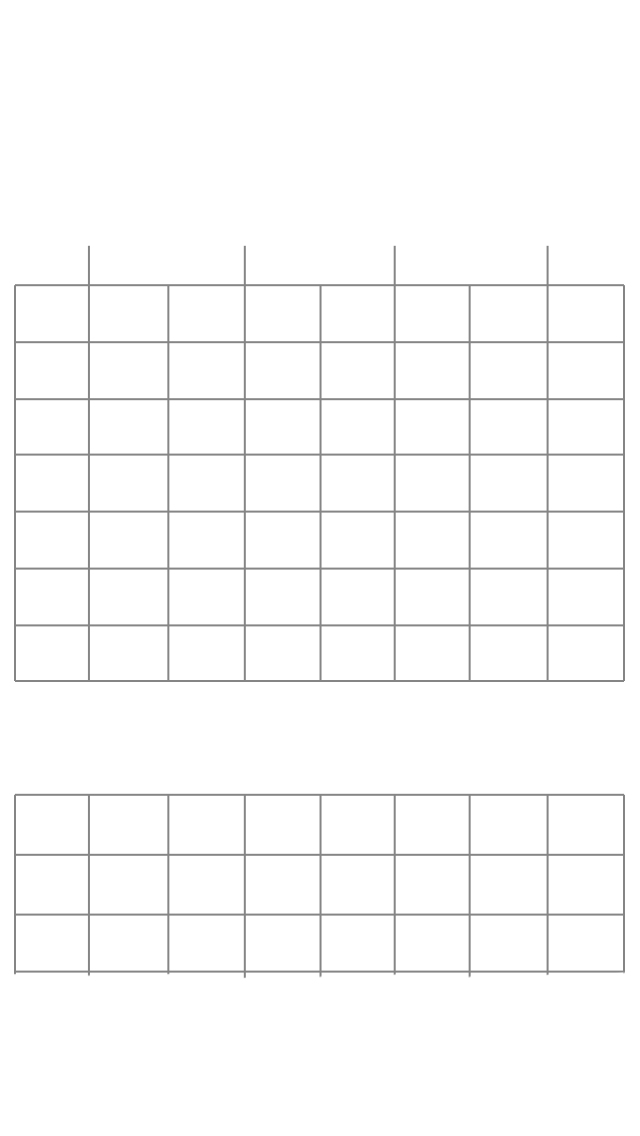
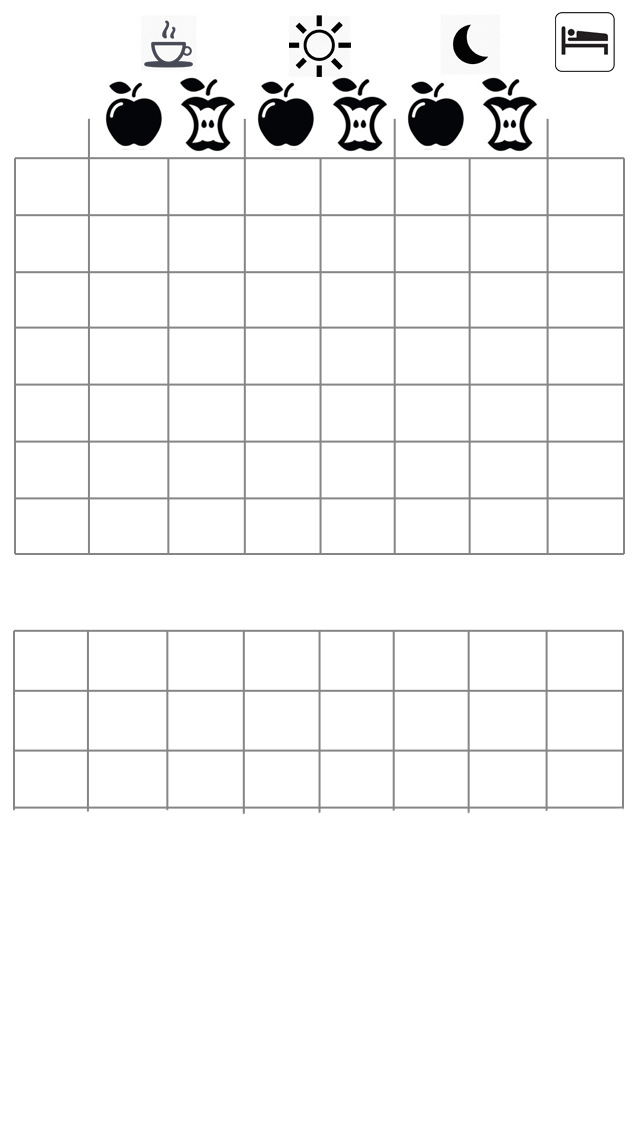
schema view in table view controller with predefined items choosable

diff --git a/bti8108.groupbjjm.diabetespass/bti8108.groupbjjm.diabetespass/SetSchemaViewController.m b/bti8108.groupbjjm.diabetespass/bti8108.groupbjjm.diabetespass/SetSchemaViewController.m
@@ -7,11 +7,23 @@
 //
 
 #import "SetSchemaViewController.h"
+#import "SettingsSchemaView.h"
+
+@interface SetSchemaViewController()
+
+@property (nonatomic, strong) NSArray* matrixData;
+
+@end
 
 @implementation SetSchemaViewController
 
+@synthesize pickerDefaults=_pickerDefaults;
 
 
+CGFloat const WeekDayLabelSize = 50.0;
+CGFloat const CheckButtonWith = 50.0;
+CGFloat const MatrixSpacing = 5.0;
+CGFloat const FirstDataRowPosition = 90.0;
 
 - (IBAction)unwindToSchemaView:(UIStoryboardSegue *)segue
 {
@@ -27,6 +39,307 @@
 }
 
 
+
+
+-(void) viewDidLoad {
+    [super viewDidLoad];
+    
+    [self initFakeData];
+    
+    
+    CGRect applicationFrame = [[UIScreen mainScreen] applicationFrame];
+    
+    _pickerDefaults = @[@"wenig", @"häufig", @"viel"];
+    
+    self.defaultSchemePicker.dataSource = self;
+    self.defaultSchemePicker.delegate = self;
+    
+    self.defaultSchemePicker.hidden = true;
+    
+    NSInteger row = [self.defaultSchemePicker selectedRowInComponent:0];
+    NSString *itemName = [_pickerDefaults objectAtIndex:row];
+    
+    [self.changeSchema setTitle:itemName forState:UIControlStateNormal];
+    
+    UIImageView *backgroundImageView = [[UIImageView alloc] initWithFrame:applicationFrame];
+    UIImage *backgroundImage = [UIImage imageNamed:@"SchemaBackground@2x"];
+    backgroundImageView.image = backgroundImage;
+    [self.schemaViewCell addSubview:backgroundImageView];
+    
+    [self initButtonMatrix];
+}
+
+-(void)initFakeData {
+    
+    NSMutableArray *matrix = [NSMutableArray array];
+    for (int rows = 0; rows < 10 ; rows++) {
+        NSMutableArray *columns = [NSMutableArray array];
+        for (int col = 0; col < 7; col++) {
+            [columns addObject:[NSNumber numberWithInt:1]];
+        }
+        [matrix addObject:columns];
+    }
+    
+    self.matrixData = matrix;
+}
+
+-(void)tableView:(UITableView *)tableView didSelectRowAtIndexPath:(NSIndexPath *)indexPath {
+    UITableViewCell* cell = [tableView cellForRowAtIndexPath:indexPath];
+    if (cell == self.intervallCell) { // this is my date cell above the picker cell
+        self.defaultPickerIsShowing = !self.defaultPickerIsShowing;
+        if (self.defaultPickerIsShowing) {
+            [self showPickerCell];
+        } else {
+            [self hidePickerCell];
+        }
+        
+        [UIView animateWithDuration:.4 animations:^{
+            [self.tableView reloadRowsAtIndexPaths:@[[NSIndexPath indexPathForRow:2 inSection:0]] withRowAnimation:UITableViewRowAnimationFade];
+            [self.tableView reloadData];
+        }];
+    }
+}
+
+- (void)showPickerCell {
+    
+    // set the boolean to YES, to mark that the datepicker is shown
+    self.defaultPickerIsShowing = YES;
+    
+    [self.tableView beginUpdates];
+    
+    [self.tableView endUpdates];
+    
+    // show the date picker and make an animation that if looks like the datepicker appears behind the cells
+    self.defaultSchemePicker.hidden = NO;
+    self.defaultSchemePicker.alpha = 0.0f;
+    
+    [UIView animateWithDuration:0.25 animations:^{
+        
+        self.defaultSchemePicker.alpha = 1.0f;
+        
+    }];
+}
+
+// method to hide the morning date picker cell
+- (void)hidePickerCell {
+    
+    // set the boolean to NO, to mark that the morning datepicker is not shown
+    self.defaultPickerIsShowing = NO;
+    
+    [self.tableView beginUpdates];
+    [self.tableView endUpdates];
+    
+    // animation effect, that if looks like the morning date picker dissapear behind the cells after that set the midday date picker hidden
+    [UIView animateWithDuration:0.25
+                     animations:^{
+                         self.defaultSchemePicker.alpha = 0.0f;
+                     }
+                     completion:^(BOOL finished){
+                         self.defaultSchemePicker.hidden = YES;
+                     }];
+}
+
+
+- (void)pickerView:(UIPickerView *)pickerView didSelectRow:(NSInteger)row inComponent:(NSInteger)component {
+
+    NSString *itemName = [_pickerDefaults objectAtIndex:row];
+    
+    NSLog(itemName);
+    
+    //wenn geändert: speichern
+    [self.changeSchema setTitle:itemName forState:UIControlStateNormal];
+}
+
+// store the index path of the date picker cell
+-(CGFloat)tableView:(UITableView *)tableView heightForRowAtIndexPath:(NSIndexPath *)indexPath {
+
+    if (indexPath.section == 0 && indexPath.row == 1 && !self.defaultPickerIsShowing){
+        return 0;
+    }
+    //else give back standard height defined
+    return [super tableView:tableView heightForRowAtIndexPath:indexPath];
+}
+
+//// Customize the appearance of table view cells.
+//- (UITableViewCell *)tableView:(UITableView *)tableView cellForRowAtIndexPath:(NSIndexPath *)indexPath {
+//    UITableViewCell *cell = [tableView cellForRowAtIndexPath:[NSIndexPath indexPathWithIndex:1]];
+//    if (cell == nil) {
+//        [cell.contentView addSubview:[SettingsSchemaView init]];
+//    }
+//    
+//    return cell;
+//}
+
+-(void) initButtonMatrix {
+    
+    NSArray *weekdays = [NSArray arrayWithObjects:@"Mo", @"Di", @"Mi", @"Do", @"Fr", @"Sa", @"So", nil];
+    NSArray *remainingDays = [NSArray arrayWithObjects:@"-3", @"-2", @"-1", nil];
+    
+    
+//    //Images daytime
+//    
+//    UIImageView *morningImageView = [[UIImageView alloc] initWithFrame:CGRectMake(70, 85, 30, 30)];
+//    UIImage *morningImage = [UIImage imageNamed:@"morning@2x"];
+//    morningImageView.image = morningImage;
+//    [self.schemaViewCell addSubview:morningImageView];
+//    
+//    UIImageView *noonImageView = [[UIImageView alloc] initWithFrame:CGRectMake(140, 85, 30, 30)];
+//    UIImage *noonImage = [UIImage imageNamed:@"noon@2x"];
+//    noonImageView.image = noonImage;
+//    [self.schemaViewCell addSubview:noonImageView];
+//    
+//    UIImageView *eveningImageView = [[UIImageView alloc] initWithFrame:CGRectMake(210, 85, 30, 30)];
+//    UIImage *eveningImage = [UIImage imageNamed:@"evening@2x"];
+//    eveningImageView.image = eveningImage;
+//    [self.schemaViewCell addSubview:eveningImageView];
+//    
+//    UIImageView *nightImageViews = [[UIImageView alloc] initWithFrame:CGRectMake(280, 85, 30, 30)];
+//    UIImage *nightImage = [UIImage imageNamed:@"night@2x"];
+//    nightImageViews.image = nightImage;
+//    [self.schemaViewCell addSubview:nightImageViews];
+//    
+//    
+//    // Images before/after MEal
+//    UIImage *appleBig = [UIImage imageNamed:@"apfel_ganz"];
+//    UIImage *appleSmall = [UIImage imageNamed:@"apfel_biss"];
+//    
+//    UIImageView *morningPre= [[UIImageView alloc] initWithFrame:CGRectMake(55, 120, 30,30)];
+//    morningPre.image = appleBig;
+//    [self.schemaViewCell addSubview:morningPre];
+//    
+//    UIImageView *morningAfter= [[UIImageView alloc] initWithFrame:CGRectMake(90, 120, 30,30)];
+//    morningAfter.image = appleSmall;
+//    [self.schemaViewCell addSubview:morningAfter];
+//    
+//    UIImageView *noonPre= [[UIImageView alloc] initWithFrame:CGRectMake(130, 120,30,30)];
+//    noonPre.image = appleBig;
+//    [self.schemaViewCell addSubview:noonPre];
+//    
+//    UIImageView *noonAfter= [[UIImageView alloc] initWithFrame:CGRectMake(165, 120, 30,30)];
+//    noonAfter.image = appleSmall;
+//    [self.schemaViewCell addSubview:noonAfter];
+//    
+//    UIImageView *eveningPre= [[UIImageView alloc] initWithFrame:CGRectMake(205, 120, 30,30)];
+//    eveningPre.image = appleBig;
+//    [self.schemaViewCell addSubview:eveningPre];
+//    
+//    UIImageView *eveningAfter= [[UIImageView alloc] initWithFrame:CGRectMake(240, 120, 30,30)];
+//    eveningAfter.image = appleSmall;
+//    [self.schemaViewCell addSubview:eveningAfter];
+    
+    //label weekdays
+    
+    int row =  FirstDataRowPosition;
+    
+    for (int i = 0; i < 7; i++) {
+        [self addLabelAtColumn:0 atRow:0 atPosition:CGRectMake(10.0, row, 50.0, 43.0) withText:weekdays[i]];
+        row += 27.0;
+    }
+    
+    //label consult
+    row = FirstDataRowPosition + 225;
+    
+    for (int i = 0; i < 3; i++) {
+        [self addLabelAtColumn:0 atRow:0 atPosition:CGRectMake(12.0, row, 50.0, 43.0) withText:remainingDays[i]];
+        row += 30.0;
+    }
+    
+    //Restzeit bis Arztbesuchs
+    UILabel *doctorConsultLabel = [ [UILabel alloc ] initWithFrame:CGRectMake(10.0, FirstDataRowPosition+195, 350.0, 43.0) ];
+    doctorConsultLabel.textAlignment =  NSTextAlignmentLeft;
+    doctorConsultLabel.textColor = [UIColor blackColor];
+    doctorConsultLabel.font = [UIFont fontWithName:@"Arial Rounded MT Bold" size:(14.0)];
+    doctorConsultLabel.text = @"Drei Tage bis zur nächsten Arztkonsultation";
+    [self.schemaViewCell addSubview:doctorConsultLabel];
+    
+    //Buttons matrix weekdays
+    row = FirstDataRowPosition + 9;
+    int column = 50;
+    for (int rowId = 0; rowId < 7; rowId++) {
+        
+        column = 50;
+        
+        for (int columnId=0; columnId < 7; columnId++) {
+            [self addButtonAtColumn:columnId atRow:rowId*10 atPosition:CGRectMake(column, row, 23.0, 23.0)];
+            column += 39;
+        }
+        
+        if (rowId == 4) { row += 3; } //HACK: Layout not fitting at 4th row
+        
+        row += 27.5;
+        
+    }
+    
+    row = FirstDataRowPosition + 237; // create matrix for resting days to doctor visit
+    for (int rowId = 0; rowId < 3; rowId++) {
+        
+        column = 50;
+        
+        for (int columnId=0; columnId < 7; columnId++) {
+            [self addButtonAtColumn:0 atRow:0 atPosition:CGRectMake(column, row, 23.0, 23.0)];
+            column += 39;
+        }
+        row += 29;
+        
+    }
+}
+
+-(void)addButtonAtColumn:(NSInteger)column atRow:(NSInteger)row atPosition:(CGRect)pos {
+    UIButton *button = [UIButton buttonWithType:UIButtonTypeCustom];
+    [button setBackgroundImage:[UIImage imageNamed:@"on@2x.png"] forState:UIControlStateNormal];
+    [button setBackgroundImage:[UIImage imageNamed:@"off@2x.png"] forState:UIControlStateSelected];
+    [button addTarget:self
+               action:@selector(timeSelected:)
+     forControlEvents:UIControlEventTouchUpInside];
+    [button setFrame:pos];
+    [button setTag:column+row];
+    [self.schemaViewCell addSubview:button];
+}
+
+-(void)addLabelAtColumn:(NSInteger)column atRow:(NSInteger)row atPosition:(CGRect)pos withText:(NSString*)text {
+    UILabel *label09 = [ [UILabel alloc ] initWithFrame:pos ];
+    label09.textAlignment =  NSTextAlignmentLeft;
+    label09.textColor = [UIColor colorWithRed:0.0 green:122.0/255.0 blue:1.0 alpha:1.0];
+    label09.font = [UIFont fontWithName:@"Arial Rounded MT Bold" size:(20.0)];
+    label09.text = text;
+    [self.schemaViewCell addSubview:label09];
+}
+
+-(void)timeSelected:(id)sender {
+    UIButton *tempBtn=(UIButton *) sender;
+    
+    NSString * string = [NSString stringWithFormat:@"%d", tempBtn.tag];
+    NSLog(string) ;
+    
+    int row = (tempBtn.tag / 10) % 10;
+    int col = tempBtn.tag % 10;
+    
+    if ([[[self.matrixData objectAtIndex:row] objectAtIndex:col] integerValue] == 0) {
+        [tempBtn setBackgroundImage:[UIImage imageNamed:@"on@2x.png"] forState:UIControlStateNormal];
+        [[self.matrixData objectAtIndex:row] setObject:[NSNumber numberWithInt:1] atIndex:col];
+    } else {
+        [tempBtn setBackgroundImage:[UIImage imageNamed:@"off@2x.png"] forState:UIControlStateNormal];
+        [[self.matrixData objectAtIndex:row] setObject:[NSNumber numberWithInt:0] atIndex:col];
+    }
+}
+
+// The number of columns of data
+- (int)numberOfComponentsInPickerView:(UIPickerView *)pickerView
+{
+    return 1;
+}
+
+// The number of rows of data
+- (int)pickerView:(UIPickerView *)pickerView numberOfRowsInComponent:(NSInteger)component
+{
+    return _pickerDefaults.count;
+}
+
+// The data to return for the row and component (column) that's being passed in
+- (NSString*)pickerView:(UIPickerView *)pickerView titleForRow:(NSInteger)row forComponent:(NSInteger)component
+{
+    return _pickerDefaults[row];
+}
 
 
 @end

diff --git a/bti8108.groupbjjm.diabetespass/bti8108.groupbjjm.diabetespass/SetSchemaViewController.h b/bti8108.groupbjjm.diabetespass/bti8108.groupbjjm.diabetespass/SetSchemaViewController.h
@@ -8,12 +8,25 @@
 
 #import <UIKit/UIKit.h>
 
-@interface SetSchemaViewController : UITableViewController
+@interface SetSchemaViewController : UITableViewController<UIPickerViewDataSource, UIPickerViewDelegate>
 
+@property (weak, nonatomic) IBOutlet UIPickerView *defaultSchemePicker;
+@property (weak, nonatomic) IBOutlet UIButton *changeSchema;
+
+@property (weak, nonatomic) IBOutlet UIView *schemaViewCell;
+
+@property (weak, nonatomic) IBOutlet UITableViewCell *intervallCell;
+@property (weak, nonatomic) IBOutlet UITableViewCell *intervallPickerCell;
+
+@property (assign) BOOL defaultPickerIsShowing;
 
 @property (weak, nonatomic) IBOutlet UIButton *saveButton;
 
 - (IBAction)unwindToSchemaView:(UIStoryboardSegue *)segue;
 
 
+@property (strong, nonatomic) NSArray *pickerDefaults;
+
 @end
+
+
